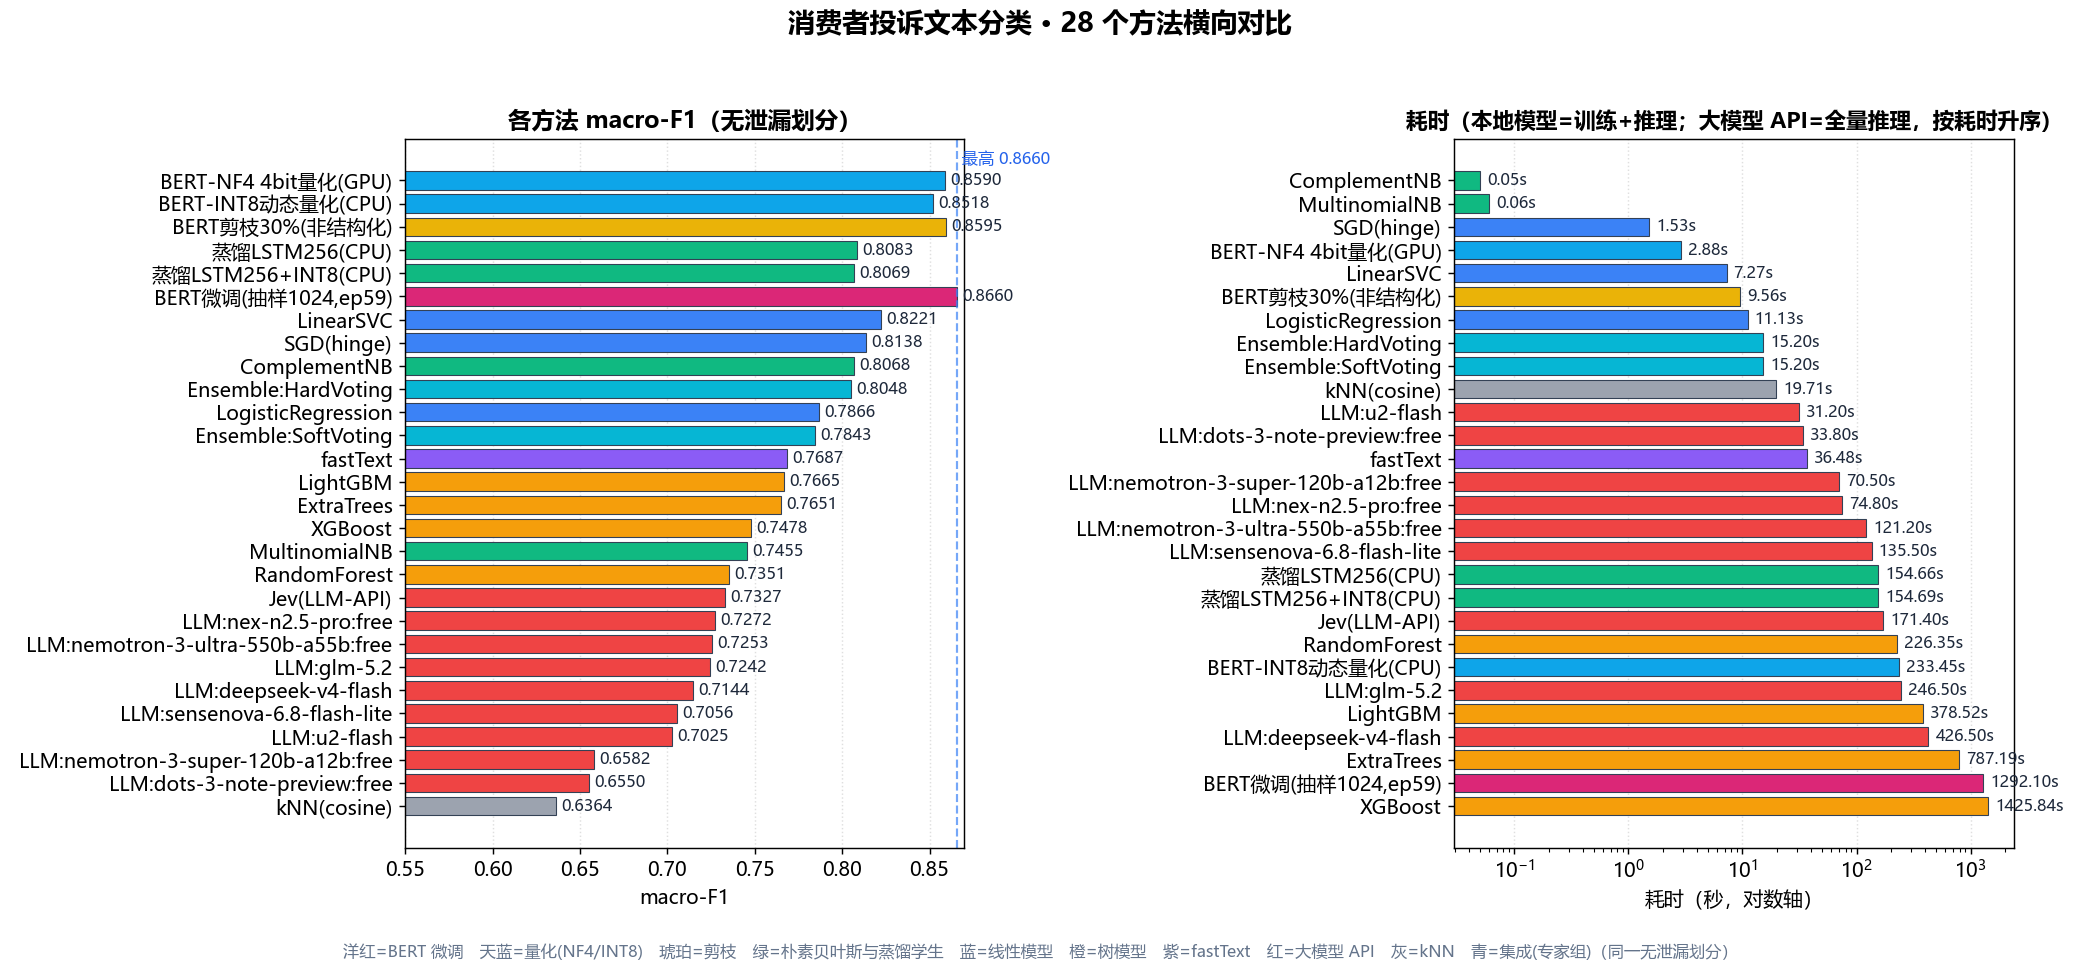
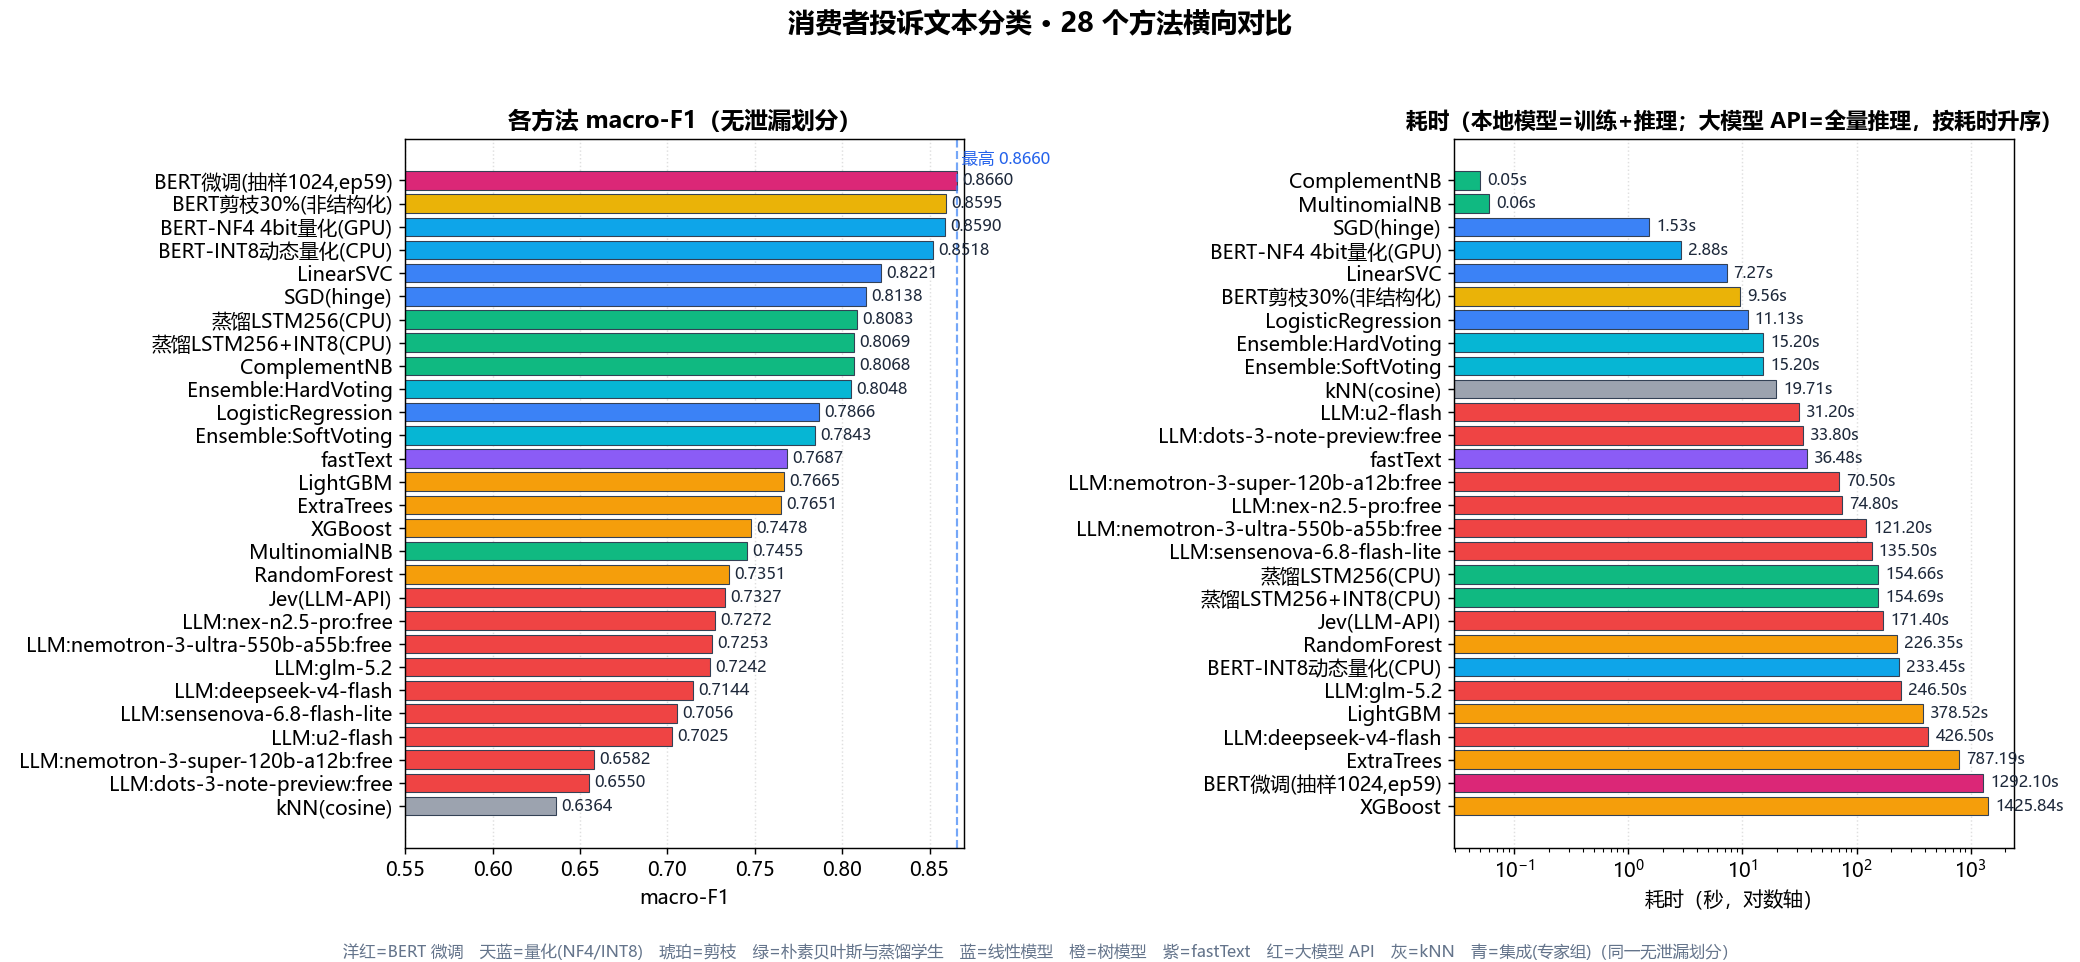
fix: 榜单图与表统一按 macro-F1 降序, 集成两行归位
- 问题: 5.5 表本是按 macro-F1 降序排的, 但两行 Ensemble(硬投票 0.8048 /
  软投票 0.7843)被追加在表末, 破坏了单调性; 而且表前从未写明排序规则
- 根因: 6 个评测脚本都是"旧行保留 + 新行追加"的合并写法, 于是
  tfidf_clf_result.json 的行序等于采集批次而非排名; make_compare_fig.py 又直接
  按 json 顺序画, 所以 09 图其实也是乱序的 —— 图表三处口径不一致
- 一处根治:
  * make_compare_fig.py 显式按 macro-F1 降序排序后再画(不再依赖 json 顺序)
  * tfidf_clf_result.json 按 macro-F1 降序重排, best 指向 BERT 微调
  * README 5.5: 集成两行归位(ComplementNB 后 / LogisticRegression 后), 去掉其
    加粗(表内加粗只留登顶行), 表前补排序说明
  * README 5.11: 表前补"按方案族排列、族内按 macro-F1 降序"说明
- 顺带修 TENSOR.md: 3.3 表 kNN 错位(0.6364 排在 0.6582 之前)并补"16 方法快照"
  说明; 3.4 三处过时表述校准 —— 真实泛化 0.82 补 BERT 0.8660、LinearSVC "精度
  最高"改为"传统方法里最高"、帕累托前沿 4 -> 5 个成员(LinearSVC 已被 NF4 挤出)
- 重出 09 图

Changed region(s): [[0.0625, 0.1559, 0.5, 0.3742]]

diff --git a/resources/make_compare_fig.py b/resources/make_compare_fig.py
@@ -18,7 +18,9 @@ OUT = os.path.join(RES, "figures")
 os.makedirs(OUT, exist_ok=True)
 
 d = json.load(open(os.path.join(RES, "tfidf_clf_result.json"), encoding="utf-8"))
-rows = d["rows"]
+# 数据源是各评测脚本"旧行保留 + 新行追加"分批累出来的, 行序等于采集批次,
+# 不是排名; 这里统一按 macro-F1 降序再画, 保证图与 README 5.5 的表格同序。
+rows = sorted(d["rows"], key=lambda r: -r["macro_f1"])
 names = [r["name"] for r in rows]
 f1 = [r["macro_f1"] for r in rows]
 # 统一耗时口径：本地模型取训练 + 推理；大模型 API 取全量推理墙钟时间

diff --git a/README.md b/README.md
@@ -275,6 +275,8 @@ is_aug   : 0
 
 ![方法性能与耗时对比](resources/figures/09_model_compare.png)
 
+下表按 **macro-F1 降序**排列，压缩变体与专家组集成都不另开小表，一律按同一口径参与排序（图与表同序）。
+
 | 方法 | macro-F1 | 准确率 | 耗时 |
 | --- | ---: | ---: | ---: |
 | **BERT 微调**（抽样 1024/epoch，ep59） | **0.8660** | **0.8628** | 1292.1s（训练 59 轮，GPU） |
@@ -286,7 +288,9 @@ is_aug   : 0
 | 蒸馏 LSTM 学生 256 维（20 轮） | 0.8083 | 0.8077 | 151.7s（蒸馏训练，GPU）+3.0s（推理，CPU） |
 | 蒸馏 LSTM 学生 256 维+INT8 | 0.8069 | 0.8062 | 151.7s + 3.0s（推理，CPU） |
 | ComplementNB | 0.8068 | 0.8128 | 0.1s（训练） |
+| Ensemble:HardVoting（6 专家硬投票） | 0.8048 | 0.8099 | 15.2s（训练 6 专家）+≈0s（投票） |
 | LogisticRegression | 0.7866 | 0.8012 | 11.1s（训练） |
+| Ensemble:SoftVoting（6 专家平均概率） | 0.7843 | 0.7954 | 15.2s（训练 6 专家）+≈0s（投票） |
 | fastText | 0.7687 | 0.7779 | 36.5s（训练） |
 | LightGBM | 0.7665 | 0.7845 | 378.5s（训练） |
 | ExtraTrees | 0.7651 | 0.7729 | 787.2s（训练） |
@@ -303,8 +307,6 @@ is_aug   : 0
 | nemotron-3-super-120b-a12b（OpenRouter 免费） | 0.6582 | 0.6718 | 70.5s（批量 128） |
 | dots-3-note-preview（OpenRouter 免费） | 0.6550 | 0.6773 | 33.8s（批量 128） |
 | kNN（cosine） | 0.6364 | 0.6531 | 19.7s（训练+推理） |
-| **Ensemble:HardVoting**（6 专家硬投票） | 0.8048 | 0.8099 | 15.2s（训练 6 专家）+≈0s（投票） |
-| **Ensemble:SoftVoting**（6 专家平均概率） | 0.7843 | 0.7954 | 15.2s（训练 6 专家）+≈0s（投票） |
 
 几点观察：
 
@@ -556,6 +558,8 @@ BERT（`bert-base-chinese`，12 层、约 1.1 亿参数）在 Kaggle 云端 GPU 
 ![模型压缩四方案对比](resources/figures/19_compress_compare.png)
 
 > 图的读法：同一份权重换设备只补测延迟、不重复评测精度（精度与设备无关），因此图中 CPU 行的精度标注为**同权重**的已测值；体积与延迟均为该设备实测。
+
+下表按**方案族**排列（原模型 → 量化 → 剪枝 → 蒸馏），族内按 macro-F1 降序——这样比整表单纯按精度排更能看出同一种手段在不同强度下的取舍。
 
 | 方案 | 设备 | 准确率 | macro-F1 | 体积 | 延迟（ms/样本） | 相对教师（按 macro-F1） |
 | --- | --- | ---: | ---: | ---: | ---: | --- |
